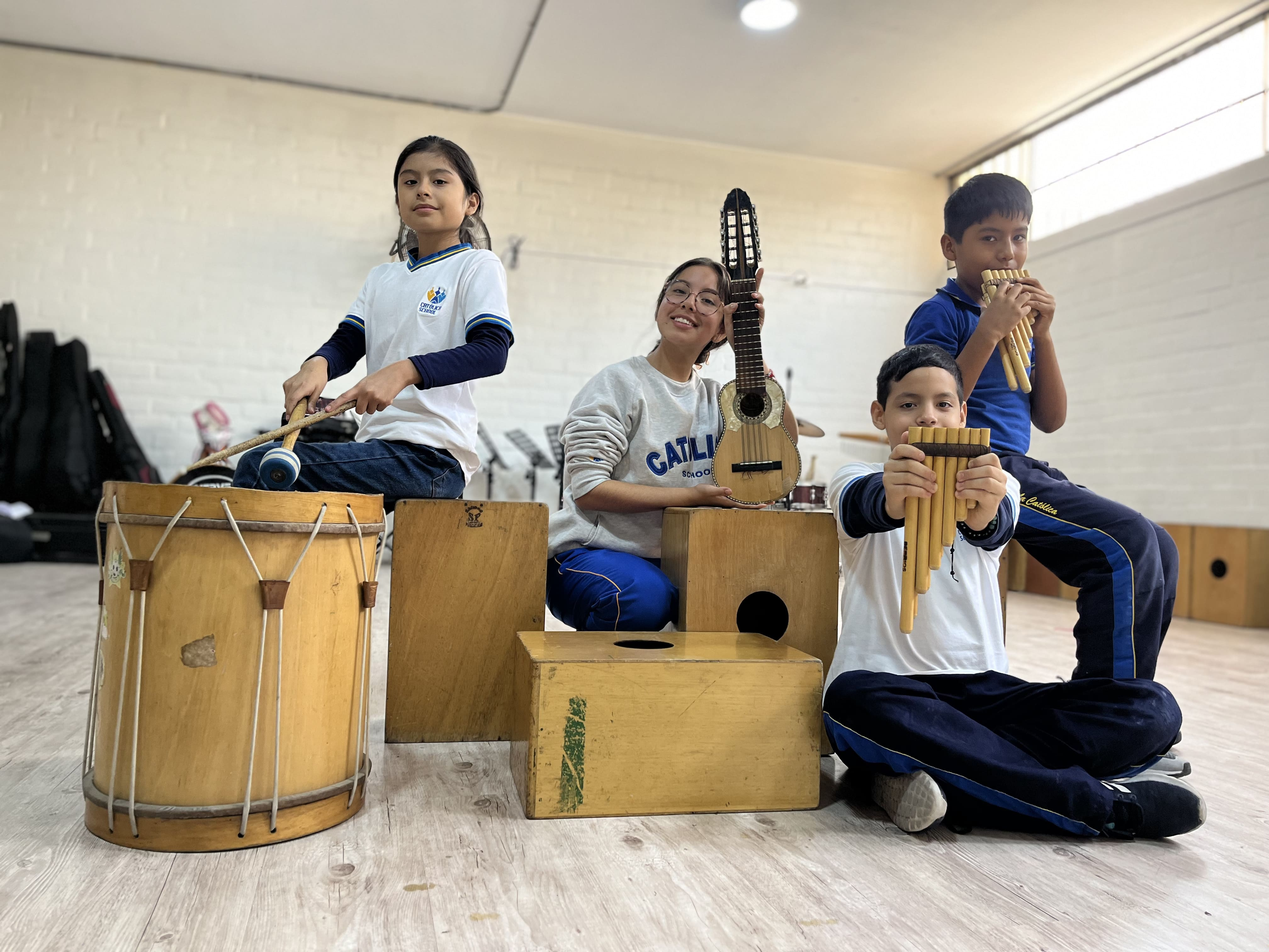
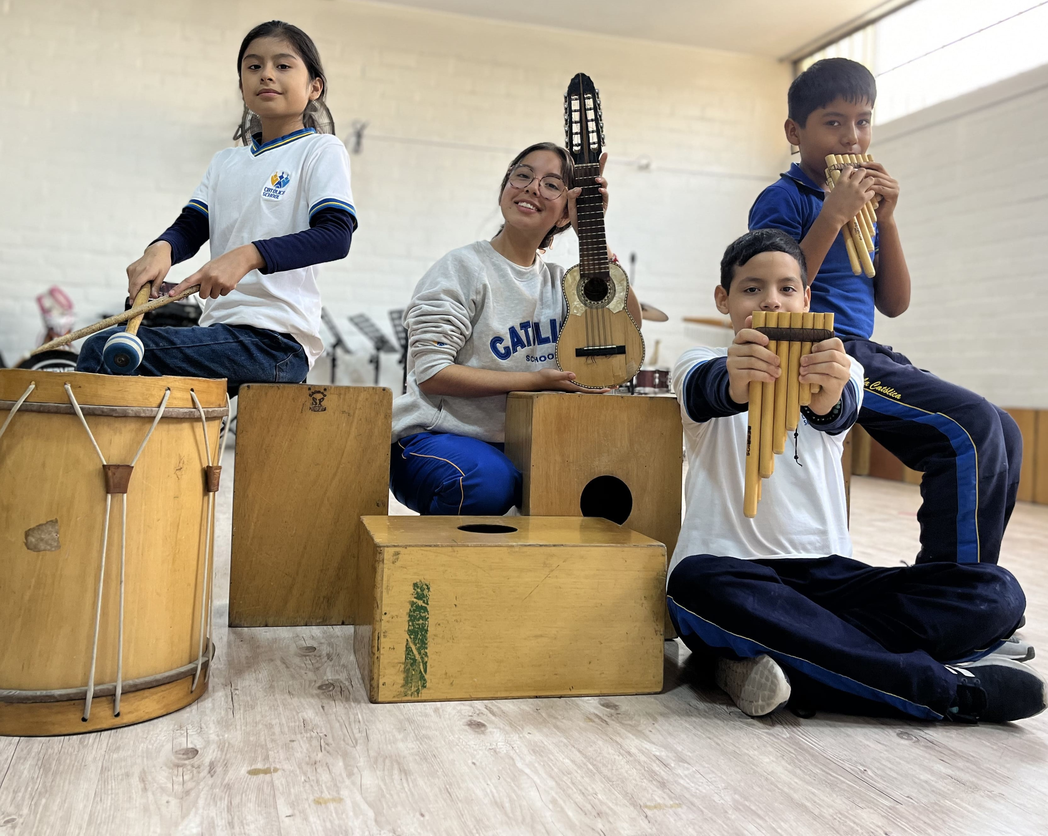
imagenes cambiadas del tercer slider y modificaciones requeridas

diff --git a/index.html b/index.html
@@ -30,7 +30,7 @@
         </section>
         <section class="header_social_container">
             <ul class="header_social_networks">
-                <a class="header_link_social header_link_social_intranet" href="https://www.peruschool.edu.pe/LaCatolicaCarabayllo" target="_blank"><li class="social_network_header">Intranet</li></a>
+                <!-- <a class="header_link_social header_link_social_intranet" href="https://www.peruschool.edu.pe/LaCatolicaCarabayllo" target="_blank"><li class="social_network_header">Intranet</li></a> -->
                 <a class="header_link_social header_link_social_w" href="https://wa.me/+51906026820" target="_blank"><li class="social_network_header"><img class="icon_network_header_w" src="/media/icons/whatsapp_blanco.png" alt="Icono de whatsapp"></li></a>
                 <a class="header_link_social header_link_social_f" href="https://www.facebook.com/share/18JRhMrJKD/" target="_blank"><li class="social_network_header"><img class="icon_network_header_f" src="/media/icons/facebook_blanco.png" alt="icono de facebook"></li></a>
                 <a class="header_link_social header_link_social_i" href="https://www.instagram.com/catolicaschool?igsh=M2J2bHFmZHRnbXln" target="_blank" ><li class="social_network_header"><img class="icon_network_header_i" src="/media/icons/instagram_blanco.png" alt="Icono de instagram"></li></a>
@@ -138,28 +138,28 @@
                     <div id="swiper_slide2" class="swiper">
                         <div class="swiper-wrapper">
                             <div class="swiper-slide">
-                                <p class="text_slide2">Atelier de Teatro</p>
+                                <p class="text_slide2">Atelier de <br class="salto_linea"> Teatro</p>
                             </div>
                             <div class="swiper-slide">
-                                <p class="text_slide2">Atelier de múscia</p>
+                                <p class="text_slide2">Atelier de <br class="salto_linea"> múscia</p>
                             </div>
                             <div class="swiper-slide">
-                                <p class="text_slide2">Chromebooks viajeras</p>
+                                <p class="text_slide2">Chromebooks <br class="salto_linea"> viajeras</p>
                             </div>
                             <div class="swiper-slide">
                                 <p class="text_slide2">Aulas retadoras con iluminación natural</p>
                             </div>
                             <div class="swiper-slide">
-                                <p class="text_slide2">Sala de Psicomotricidad</p>
+                                <p class="text_slide2">Sala de <br class="salto_linea"> Psicomotricidad</p>
                             </div>
                             <div class="swiper-slide">
-                                <p class="text_slide2">Amplios Patios</p>
+                                <p class="text_slide2">Amplios <br class="salto_linea"> Patios</p>
                             </div>
                             <div class="swiper-slide">
-                                <p class="text_slide2">Sala de psicomotricidad</p>
+                                <p class="text_slide2">Sala de <br class="salto_linea"> psicomotricidad</p>
                             </div>
                             <div class="swiper-slide">
-                                <p class="text_slide2">laboratorio de ciencias</p>
+                                <p class="text_slide2">Laboratorio de <br class="salto_linea"> ciencias</p>
                             </div>
                         </div>
                         <div class="slide2_flechas slide2_flecha_atras">
@@ -360,53 +360,15 @@
         </section>
     </main>
     <footer class="footer">
-        <div class="container_footer_top">
-            <div class="container_mapa">
-                <iframe class="mapa" src="https://www.google.com/maps/embed?pb=!1m18!1m12!1m3!1d3904.389405838486!2d-77.03397632399364!3d-11.877949938782551!2m3!1f0!2f0!3f0!3m2!1i1024!2i768!4f13.1!3m3!1m2!1s0x9105d0b8c515cd2f%3A0x72d08cfea0969124!2sCat%C3%B3lica%20School!5e0!3m2!1ses-419!2spe!4v1738177902680!5m2!1ses-419!2spe" width="600" height="450" style="border:0;" allowfullscreen="" loading="lazy" referrerpolicy="no-referrer-when-downgrade"></iframe>
-            </div>
-            <div class="container_direccion">
-                <span class="title_direccion">Dirección</span>
-                <span class="text_direccion">Av.U, Carabayllo 15318 Av. Condorcanqui - Carabayllo</span>
-            </div>
-            <div class="container_soporte_admision">
-                <div class="container_soporte">
-                    <span class="title_soporte">Soporte Católica School</span>
-                    <span class="email_soporte">soporte@colegiolacatolica.edu.pe</span>
-                </div>
-                <div class="container_admision">
-                    <span class="title_admision">Admisión</span>
-                    <span class="numbre_admision">906 026 820</span>
-                </div>
-                <a class="link_reglamento" href="#">Reglamento Interno</a>
-            </div>
-            <div class="container_redes_footer">
-                <span class="title_redes">Redes Sociales</span>
-                <div class="container_redes">
-                    <a class="links_redes_footer" href="https://wa.me/+51906026820" target="_blank">
-                        <img src="/media/icons/whatsapp_blanco.png" alt="Icono de redes sociales" class="img_redes_footer img_redes_footer_w">
-                        <span class="name_redes_footer">WhatsApp</span>
-                    </a>
-                    <a class="links_redes_footer" href="https://www.facebook.com/share/18JRhMrJKD/" target="_blank">
-                        <img src="/media/icons/facebook_blanco.png" alt="Icono de redes sociales" class="img_redes_footer">
-                        <span class="name_redes_footer">Facebook</span>
-                    </a>
-                    <a class="links_redes_footer" href="https://www.instagram.com/catolicaschool?igsh=M2J2bHFmZHRnbXln" target="_blank">
-                        <img src="/media/icons/instagram_blanco.png" alt="Icono de redes sociales" class="img_redes_footer">
-                        <span class="name_redes_footer">Instagram</span>
-                    </a>
-                    <a class="links_redes_footer" href="https://youtube.com/@catolicaschool?si=mg-xnPEi6jk8XQOK" target="_blank">
-                        <img src="/media/icons/youtube_blanco.png" alt="Icono de redes sociales" class="img_redes_footer">
-                        <span class="name_redes_footer">Youtube</span>
-                    </a>
-                </div>
-            </div>
-        </div>
         <div class="container_copy">
             <p>© 2025 - Todos los derechos reservados - Católica School</p>
         </div>
     </footer>
     <a href="https://wa.me/+51906026820" target="_blank" class="link_wsp_fixed">
-        <img class="link_wsp_fixed_img animate__animated animate__pulse animate__infinite" src="/media/icons/whatsapp_fixed.png" alt="Icono de Whatsapp">
+        <img class="link_wsp_fixed_img animate__animated animate__pulse animate__infinite" src="/media/icons/social.png" alt="Icono de Whatsapp">
+    </a>
+    <a href="https://maps.app.goo.gl/DCPhAC6mXXqA28KZA" target="_blank" class="link_wsp_fixed link_ebi_fixed">
+        <img class="link_wsp_fixed_img animate__animated animate__pulse animate__infinite" src="/media/icons/ubicacion.png" alt="Icono de Whatsapp">
     </a>
     <script src="/node_modules/swiper/swiper-bundle.min.js"></script>
     <script src="/scripts/sliders.js"></script>

diff --git a/styles/styles.css b/styles/styles.css
@@ -809,7 +809,7 @@ html {
 .footer {
     background-color: var(--azul_catolica);
     color: var(--blanco);
-    padding: 30px 0 10px 0;
+    padding: 10px 0 10px 0;
 }
 
 .container_footer_top {
@@ -821,75 +821,8 @@ html {
     text-align: center;
 }
 
-.container_mapa {
-    height: 200px;
-}
-
-.mapa {
-    width: 100%;
-    height: 100%;
-    object-fit: cover;
-    border-radius: 10px;
-}
-
-.container_soporte_admision {
-    display: flex;
-    flex-direction: column;
-    gap: 20px;
-}
-
-.container_direccion, .container_soporte, .container_admision, .container_redes_footer {
-    display: flex;
-    flex-direction: column;
-    gap: 5px;
-}
-
-.title_direccion, .title_soporte, .title_admision, .title_redes, .link_reglamento {
-    font-family: var(--Bree_Bold);
-    font-size: 17px;
-    color: var(--blanco);
-}
-
-.text_direccion, .email_soporte, .numbre_admision {
-    font-family: var(--Bree_Regular);
-    font-size: 15px;
-}
-
-.container_redes {
-    display: flex;
-    flex-direction: column;
-    gap: 15px;
-}
-
-.container_redes a {
-    display: flex;
-    align-items: center;
-    gap: 12px;
-    justify-content: center;
-    text-decoration: none;
-    color: var(--blanco);
-    font-family: var(--Bree_Regular);
-}
-
-.container_redes a:first-child {
-    gap: 8px;
-}
-
-.container_redes div span {
-    font-family: var(--Bree_Regular);
-}
-
-.img_redes_footer {
-    width: 25px;
-}
-
-.img_redes_footer_w {
-    width: 32px;
-}
-
 .container_copy {
     text-align: center;
-    margin-top: 50px;
 }
 
 .container_copy p {
@@ -905,8 +838,12 @@ html {
     right: 20px;
     display: inline-block;
     z-index: 20;
-    width: 100px;
-    height: 100px;
+    width: 60px;
+    height: 60px;
+}
+
+.link_ebi_fixed {
+    bottom: 110px;
 }
 
 .link_wsp_fixed img {
@@ -939,6 +876,12 @@ html, body {
     }
 }
 
+@media (min-width: 515px) {
+    .salto_linea {
+        display: none;
+    }
+}
+
 /* TAMAÑO IPAD - 600px */
 @media (min-width: 600px) {
     .header {
@@ -952,16 +895,10 @@ html, body {
         width: 480px;
         height: 330px;
     }
-
-    .container_mapa {
-        height: 200px;
-        width: 300px;
-        margin: auto;
-      }
-
-      .button_section4, .button_section_3, .button_section2, .form_submit {
+    
+    .button_section4, .button_section_3, .button_section2, .form_submit {
         width: 50%;
-      }
+    }
 
       #swiper_slide2, #swiper_slide3 {
         width: 70%;
@@ -1067,22 +1004,10 @@ html, body {
         z-index: 10;
         width: 700px;
     }
-
-    .container_mapa {
-        width: 200px;
-    }
-
-    .container_direccion {
-        width: 200px;
-    }
 }
 
 /* 900px */
 @media (min-width: 900px) {
-    .container_mapa {
-        width: 260px;
-    }
-
     #swiper_1 {
         width: 680px;
         height: 430px;
@@ -1096,12 +1021,12 @@ html, body {
         padding-bottom: 60px;
     }
 
-    .footer {
-        padding-top: 40px;
-    }
-
     #swiper_slide3 {
         height: 400px;
+    }
+
+    .footer {
+        margin-top: 25px;
     }
 }
 
@@ -1141,15 +1066,6 @@ html, body {
 
     #swiper_slide3 {
         height: 280px;
-    }
-
-    .container_mapa {
-        width: 320px;
-        height: 260px;
-    }
-
-    .container_redes_footer {
-        width: 180px;
     }
 
     .section_1_blue {
@@ -1234,8 +1150,14 @@ html, body {
         width: 550px;
     }
 
-    .link_wsp_fixed img {
-        width: 100px;
+    .link_wsp_fixed {
+        width: 90px;
+        height: 90px;
+        right: 40px;
+    }
+
+    .link_ebi_fixed {
+        bottom: 140px;
     }
 
     #swiper_slide3 {
@@ -1347,6 +1269,10 @@ html, body {
     #swiper_slide3 {
         width: 520px;
         height: 380px;
+    }
+
+    .footer {
+        margin-top: 0;
     }
 }
 
